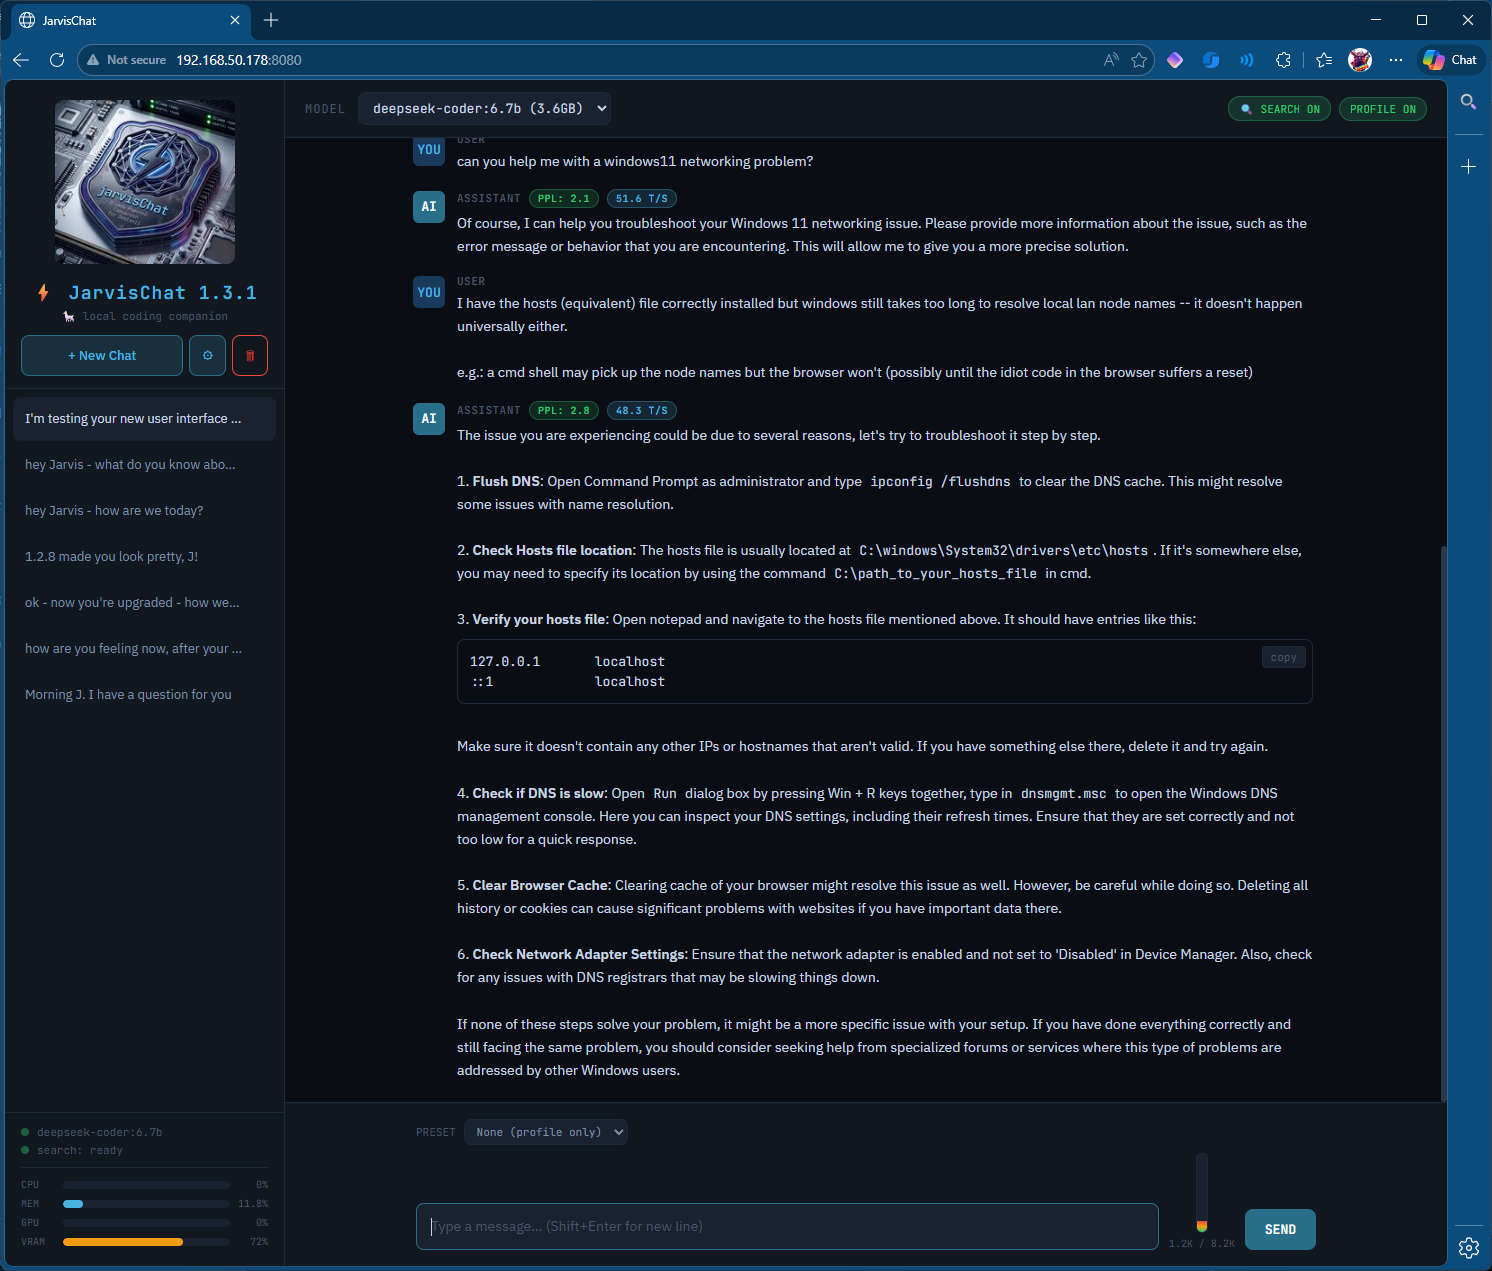
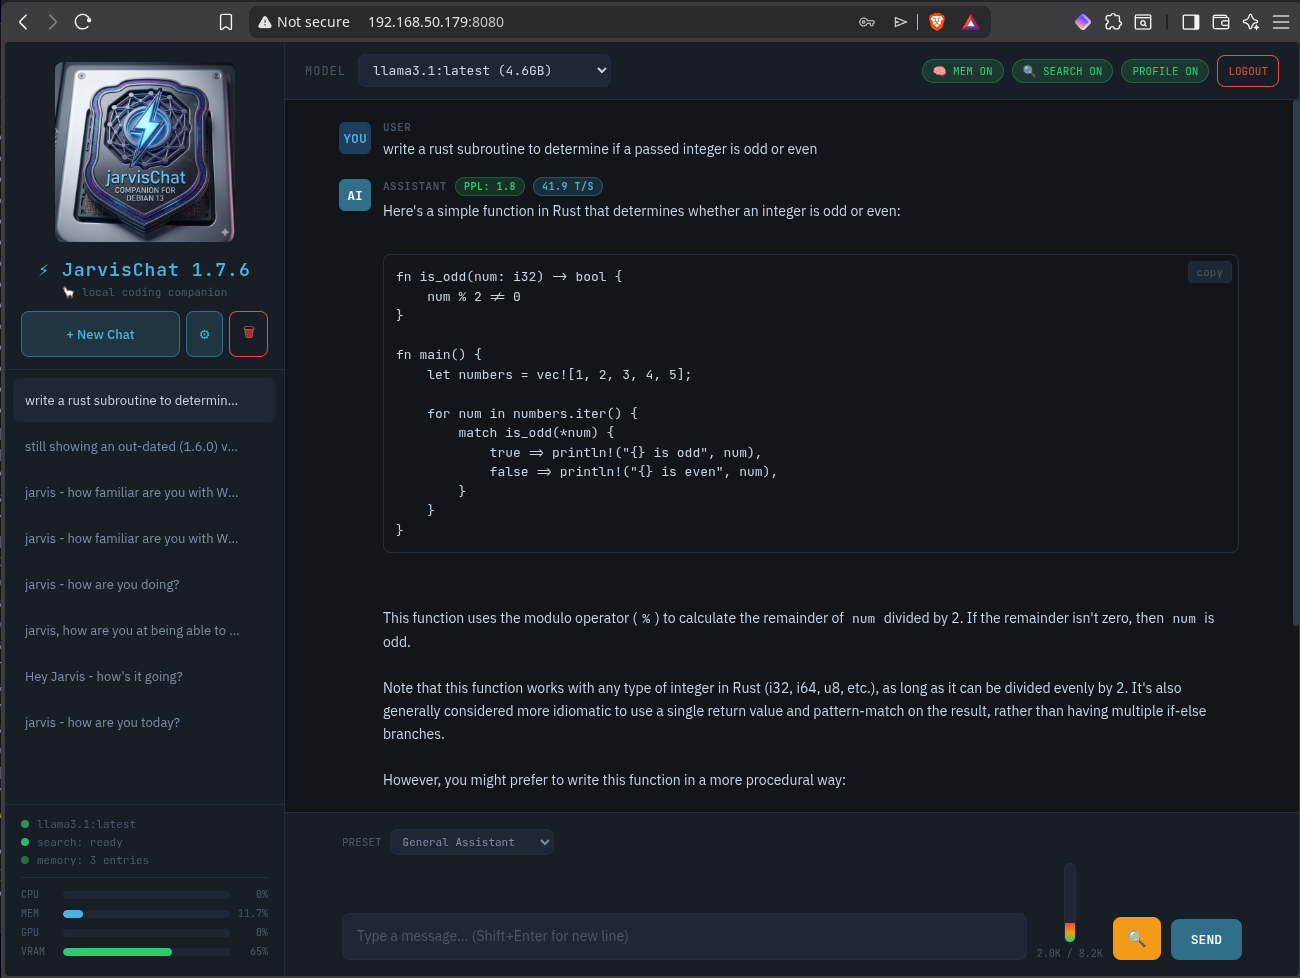
docs: replace README screenshot asset (v1.7.8)

diff --git a/app.py b/app.py
@@ -56,7 +56,7 @@ syslog_handler.setFormatter(
 log.addHandler(syslog_handler)
 
 # --- Configuration ---
-VERSION = "1.7.7"
+VERSION = "1.7.8"
 OLLAMA_BASE = "http://localhost:11434"
 SEARXNG_BASE = "http://localhost:8888"
 BASE_DIR = Path(__file__).parent

diff --git a/readme.md b/readme.md
@@ -1,4 +1,4 @@
-# ⚡ JarvisChat v1.7.7
+# ⚡ JarvisChat v1.7.8
 
 ![screenshot](docs/images/screenshot.png)
 